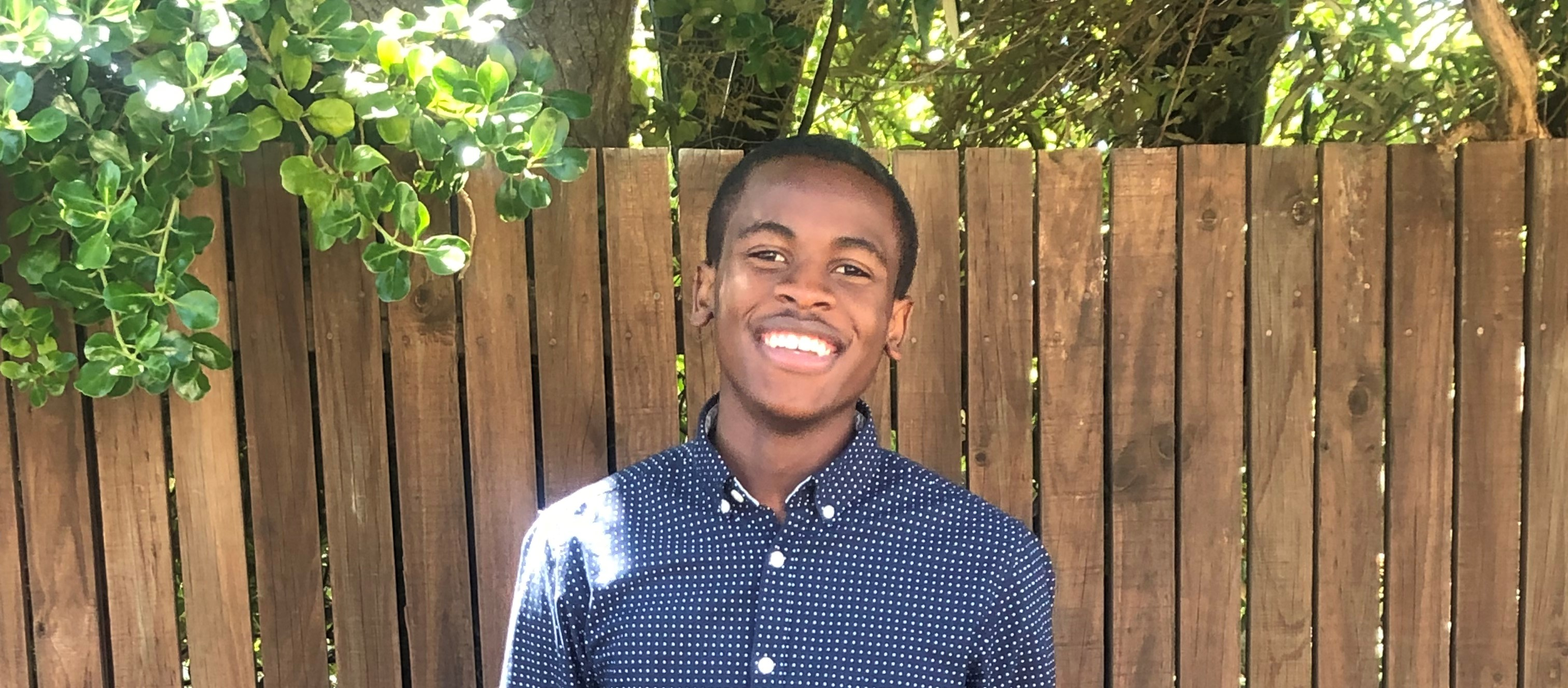
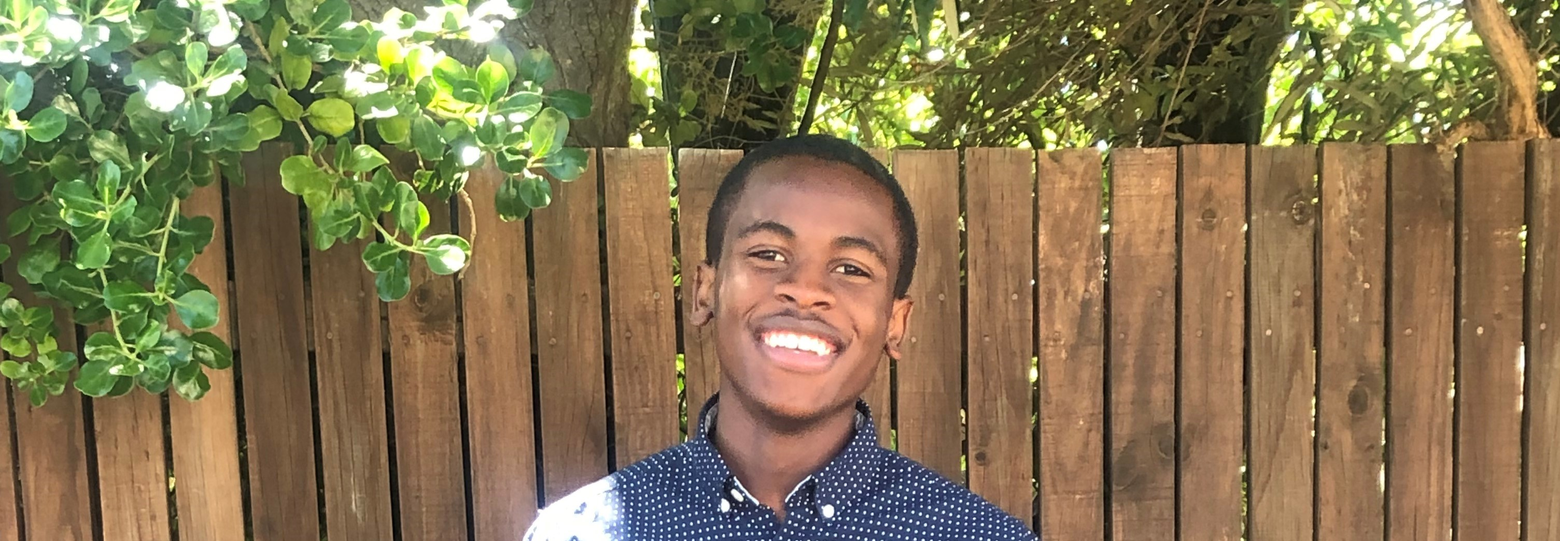
mediaQueries

diff --git a/css/stylesheet.css b/css/stylesheet.css
@@ -75,12 +75,12 @@
 
 header{
   color: black; /*Set text color to white*/
-  background-color: #534a37;
+  background-color: #dccca3;
   background-size: cover;
   background-repeat: no-repeat;
   justify-content: center; /*Move the text to middle of the page*/
   font-size: 25px;
-  padding-top: 5px; ;
+  padding-top: 15px;
 }
 
 #profilePhoto{
@@ -106,6 +106,18 @@ header{
 }
 
 #contents {padding: 1rem;
+}
+
+.about{
+  margin-right: 20px;
+}
+
+.card{
+  width: 8cm;
+  margin: 1rem;
+  border:0.2rem #9bb6a0;
+  border-style: groove;
+  background: none;
 }
 
 .listing{
@@ -135,15 +147,30 @@ h3{
   margin-right: 5px;
 }
 
-footer{background-color: #4a2545;
+footer{
+  background-color: #4a2545;
   text-align: center;
   margin: 15px;
   margin-top: 0;
 }
 
+@keyframes animationLogo {
+  0% {transform: translatex(50px);}
+  25% {transform:rotate(360deg);}
+  100% {filter: sepia(60%);}
+  }
+  
+  .icons:hover{
+  width: 200px;
+  height: 200px;
+  animation-name: animationLogo;
+  animation-duration: 4s;
+  animation-iteration-count: infinite;
+  }
 
 
-@media screen and (min-width:600px) {
+
+@media screen and (max-width:767px) {
   body{
     height: auto;
     width: auto;
@@ -159,8 +186,8 @@ footer{background-color: #4a2545;
     margin-bottom: 0%;
     height: auto;
     width: auto;
+    background-color:#dccca3;
   }
-
 
   footer{
     text-align: center;
@@ -168,12 +195,16 @@ footer{background-color: #4a2545;
     width: auto;
     margin: auto;
     margin-bottom: 0%;
+  }
 
+  .main{
+    font-size: small;
   }
 }
 
 @media screen and (min-width:768px) {
-  body{height: auto;
+  body{
+    height: auto;
     width: auto;
     font-size: medium;
     display: block;
@@ -185,19 +216,24 @@ footer{background-color: #4a2545;
     font-size: medium;
     display: block;
     margin: auto;
+    background-color: #dccca3;
+    padding-bottom: 300px;
+     
   }
 
-  footer{height: auto;
+  footer{
+    height: auto;
     width: auto;
     font-size: medium;
     display: block;
     margin: auto;
-
   }
-  
+  .main{
+    font-size: medium;
+  } 
 }
 
-@media  screen and (min-width:992px) {
+@media  screen and (min-width:991px) {
   body{
     font-family: sans-serif;
     font-size:110%;
@@ -208,7 +244,6 @@ footer{background-color: #4a2545;
     border-color: rgba(0, 0, 0, 0.979); /*Set the color of border around the body to black*/
     margin: 15px;
     padding: 0;
-   
   }
 
   header{
@@ -218,41 +253,20 @@ footer{background-color: #4a2545;
     justify-content: center; /*Move the text to middle of the page*/
     font-size: 25px;
     margin-top: 0;
-    height: 400px;
+    height: 300px;
     padding-top:70px;
+    color: black; /*Set text color to white*/
+    background-size: cover;
+    background-repeat: no-repeat;
+    justify-content: center; /*Move the text to middle of the page*/
+    font-size: 25px;
+    padding-top: 36px; 
   }
 
-  footer{background-color: #4a2545;
+  footer{
+    background-color: #4a2545;
     text-align: center;
     margin: 15px;
-  
-
+    margin-top: 0;
   }
 }
-
-
-@keyframes animationLogo {
-  0% {transform: translatex(50px);}
-  25% {transform:rotate(360deg);}
-  100% {filter: sepia(60%);}
-  }
-  
-  
-  .icons:hover{
-  width: 200px;
-  height: 200px;
-  animation-name: animationLogo;
-  animation-duration: 4s;
-  animation-iteration-count: infinite;
-  }
-
-
-
-
-
-
-
-
-
-
-

diff --git a/index.htm b/index.htm
@@ -118,8 +118,8 @@
                     <div class="row">
                       <div class="col">
                         <picture class="img-fluid rounded-circle">
-                            <source media="(max-width: 650px)" srcset="images/IMG-15434.face.jpg">
-                            <source media="(max-width: 1000px)" srcset="images/IMG-1543.jpg">
+                            <source media="(max-width: 767px)" srcset="images/IMG-15434.face.jpg">
+                            <source media="(max-width: 991px)" srcset="images/IMG-1543.jpg">
                             <img src="images/IMG-1543444.jpg" alt="" id="profilePhoto">
                         </picture>
                       </div>
